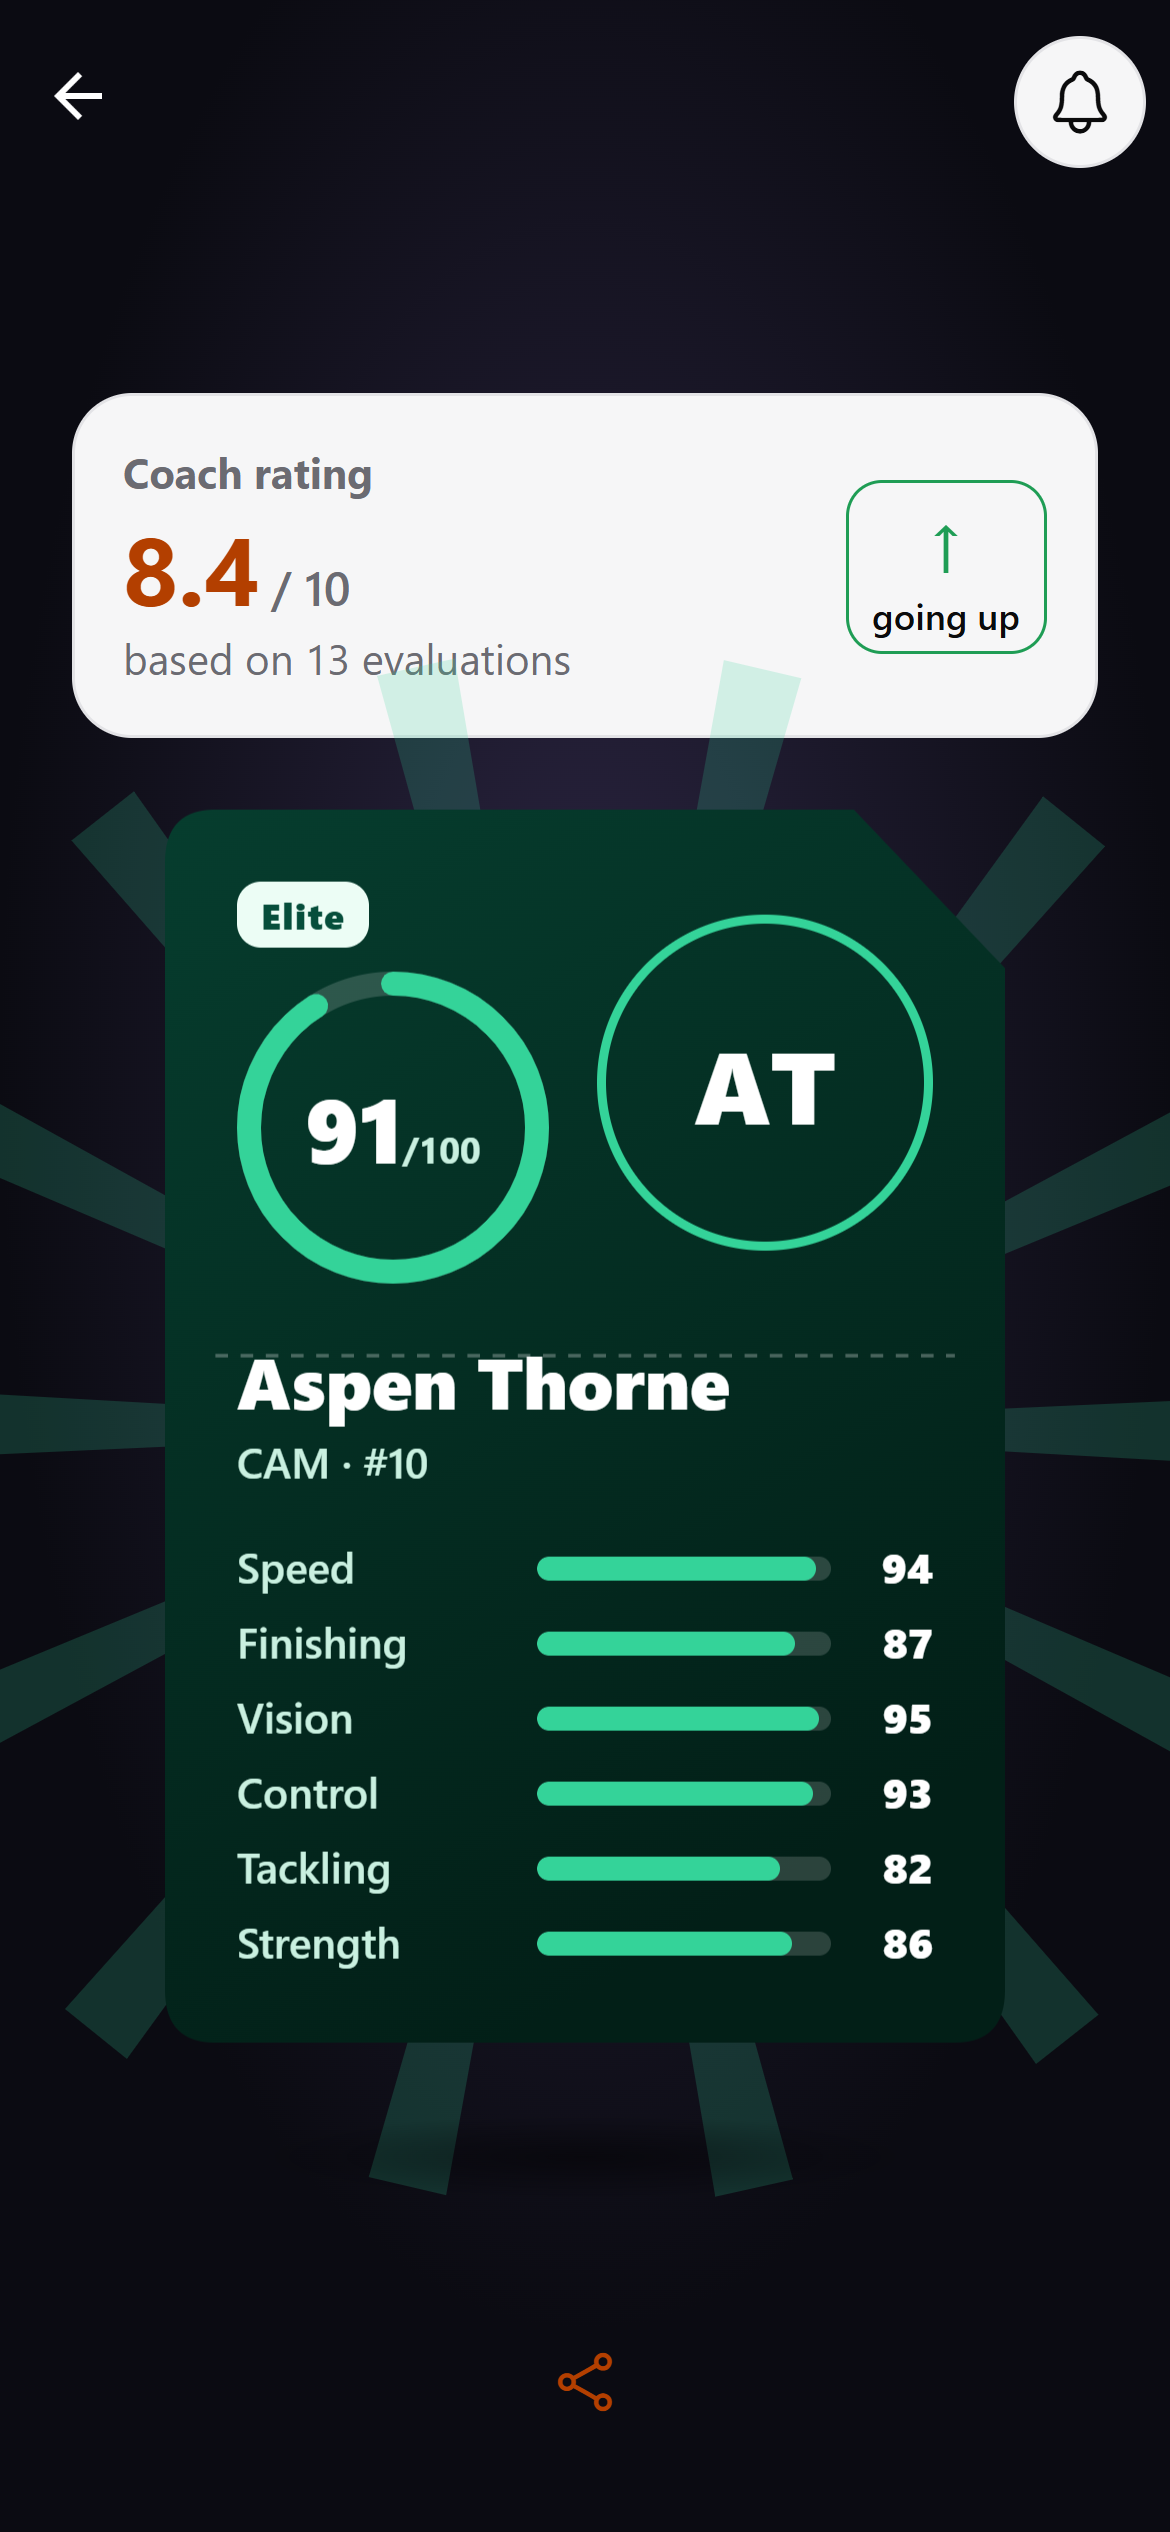
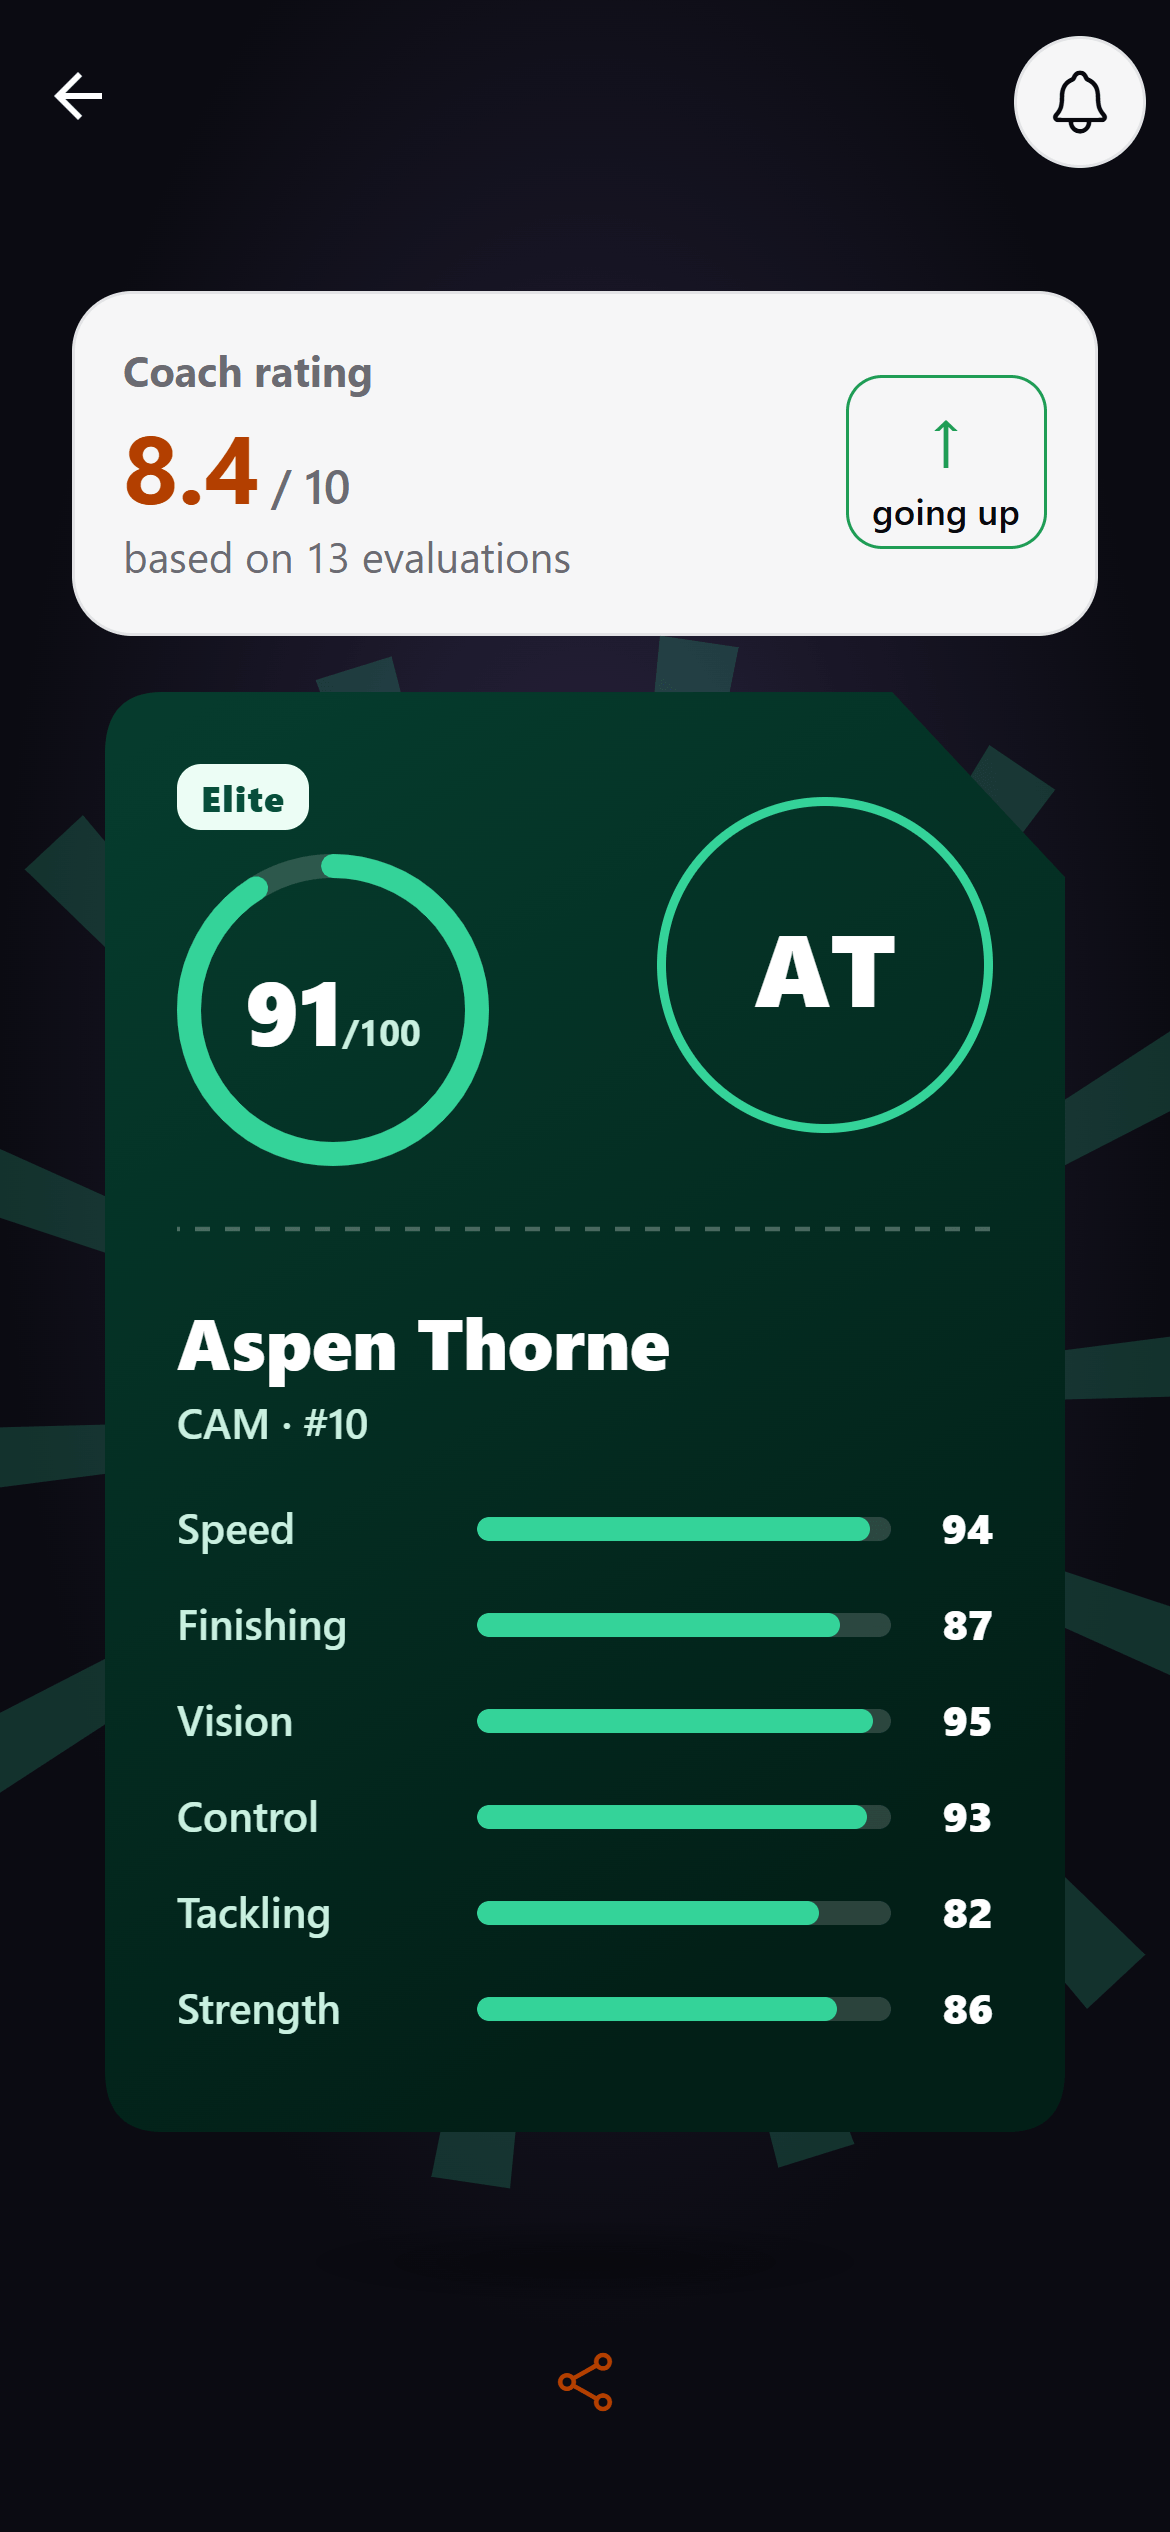
feat: real app screens for roles, formation and card
The roles screen itself (coach-whiteboard-roles.png) is held back for a new capture.

diff --git a/tests/e2e/motion.spec.ts b/tests/e2e/motion.spec.ts
@@ -373,6 +373,20 @@ test('inside the app: views, arrows, dots and keys', async ({ page, isMobile }) 
   await expect(player).not.toContainText(/channel/i);
 });
 
+for (const path of ARABIC_ENABLED ? ['/', '/ar'] : ['/']) {
+  test(`${path}: the formation and card screens are real, and load`, async ({ page }) => {
+    await page.goto(path);
+    for (const name of ['coach-formation', 'coach-card', 'coach-whiteboard', 'player-card']) {
+      const image = page.locator(`.phone img[src*="${name}.png"]`);
+      await expect(image).toHaveCount(1);
+      const url = (await image.getAttribute('src'))!;
+      const response = await page.request.get(url);
+      expect(response.status(), name).toBe(200);
+      expect(response.headers()['content-type'], name).toMatch(/^image/);
+    }
+  });
+}
+
 test('inside the app: undistorted phones, the one in front larger, tilting to the mouse', async ({
   page,
   isMobile,
